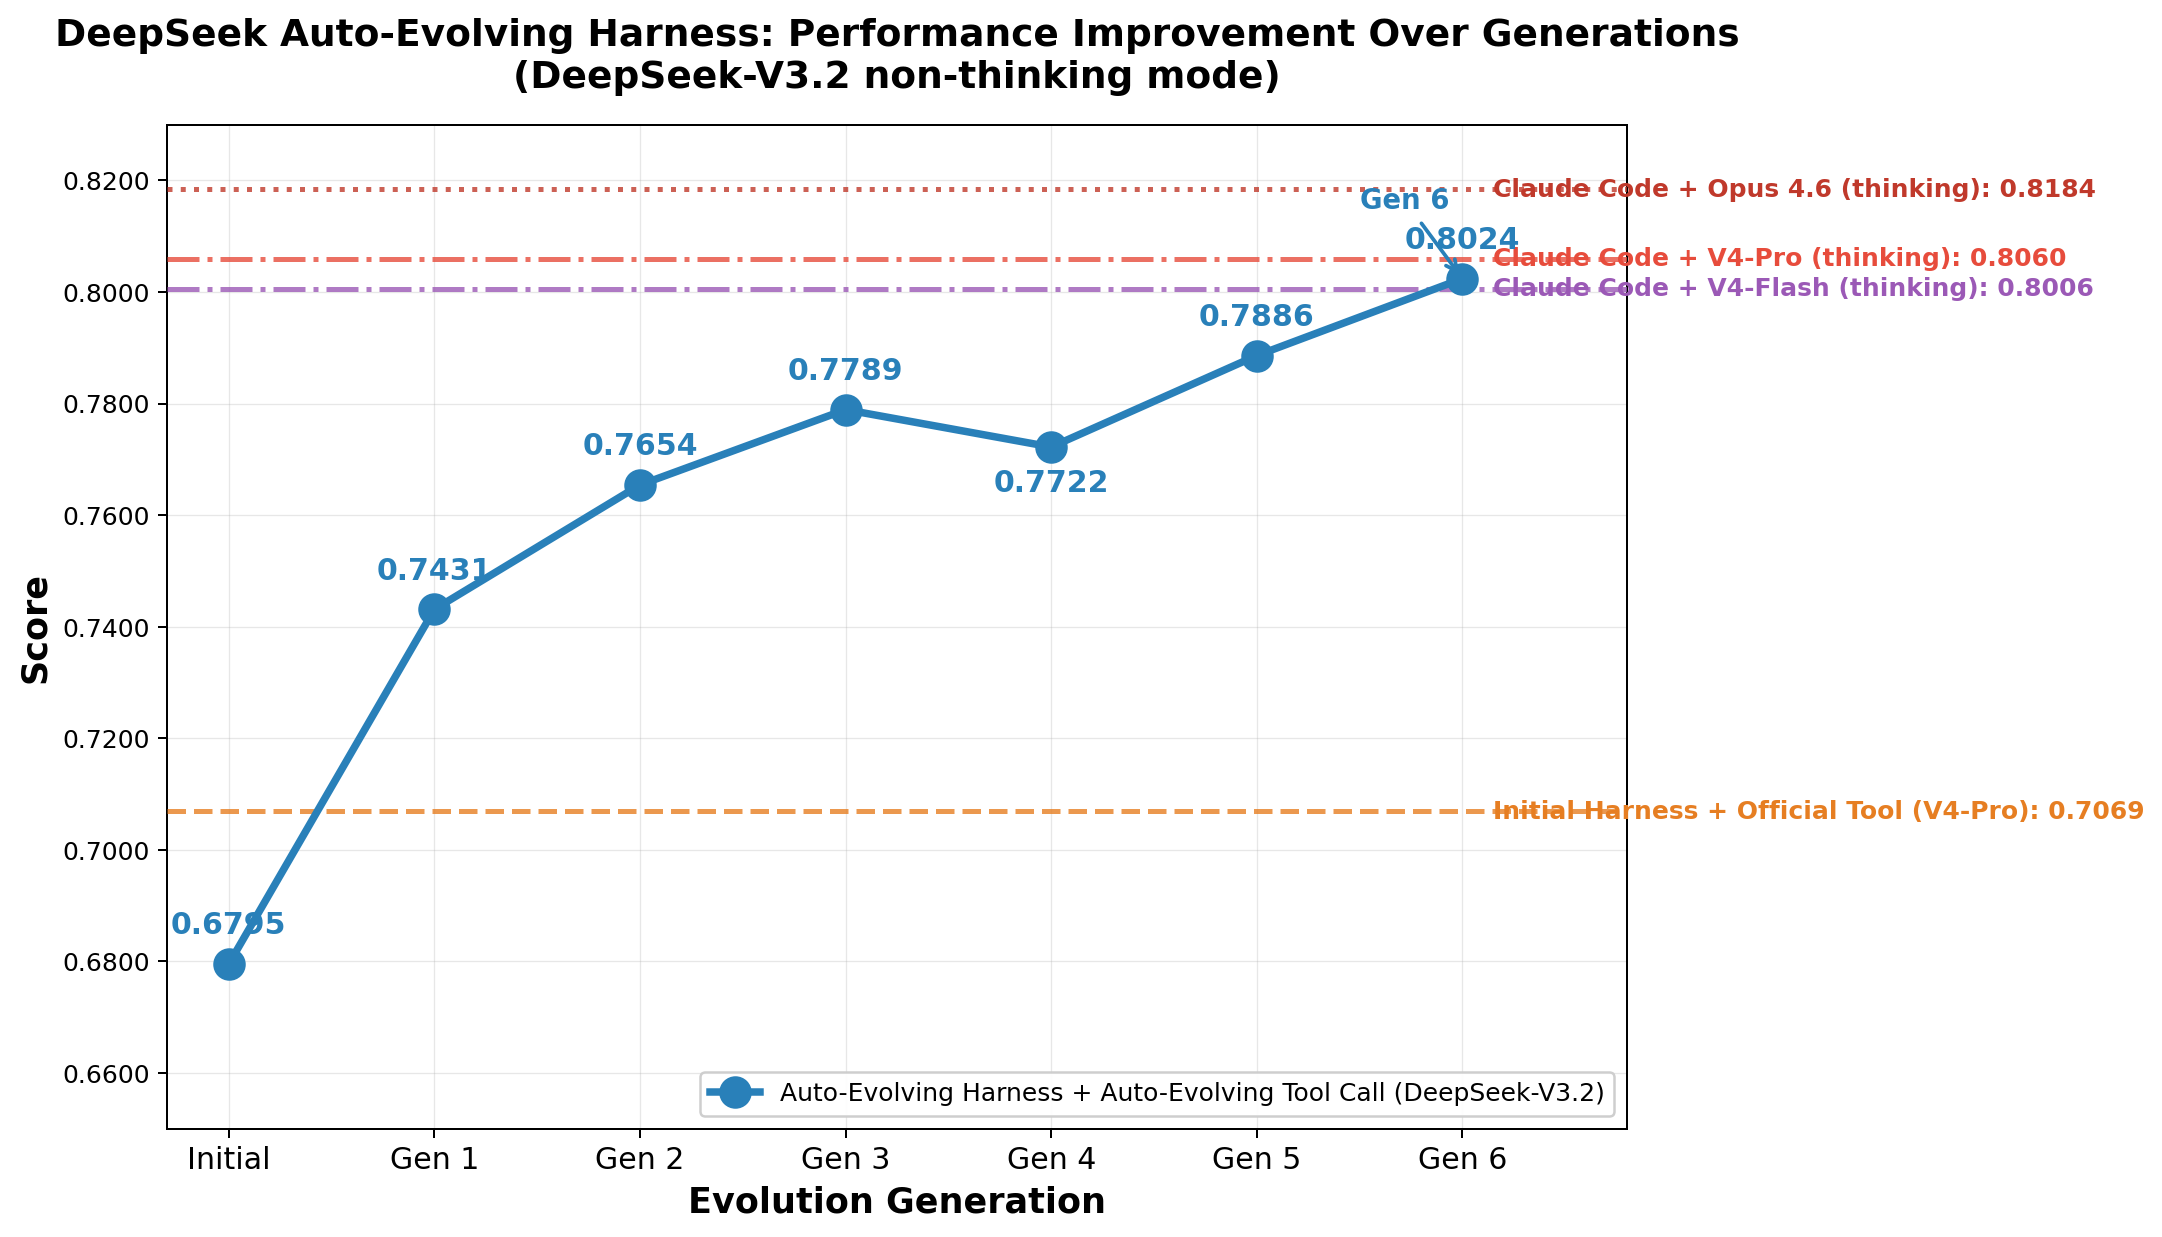
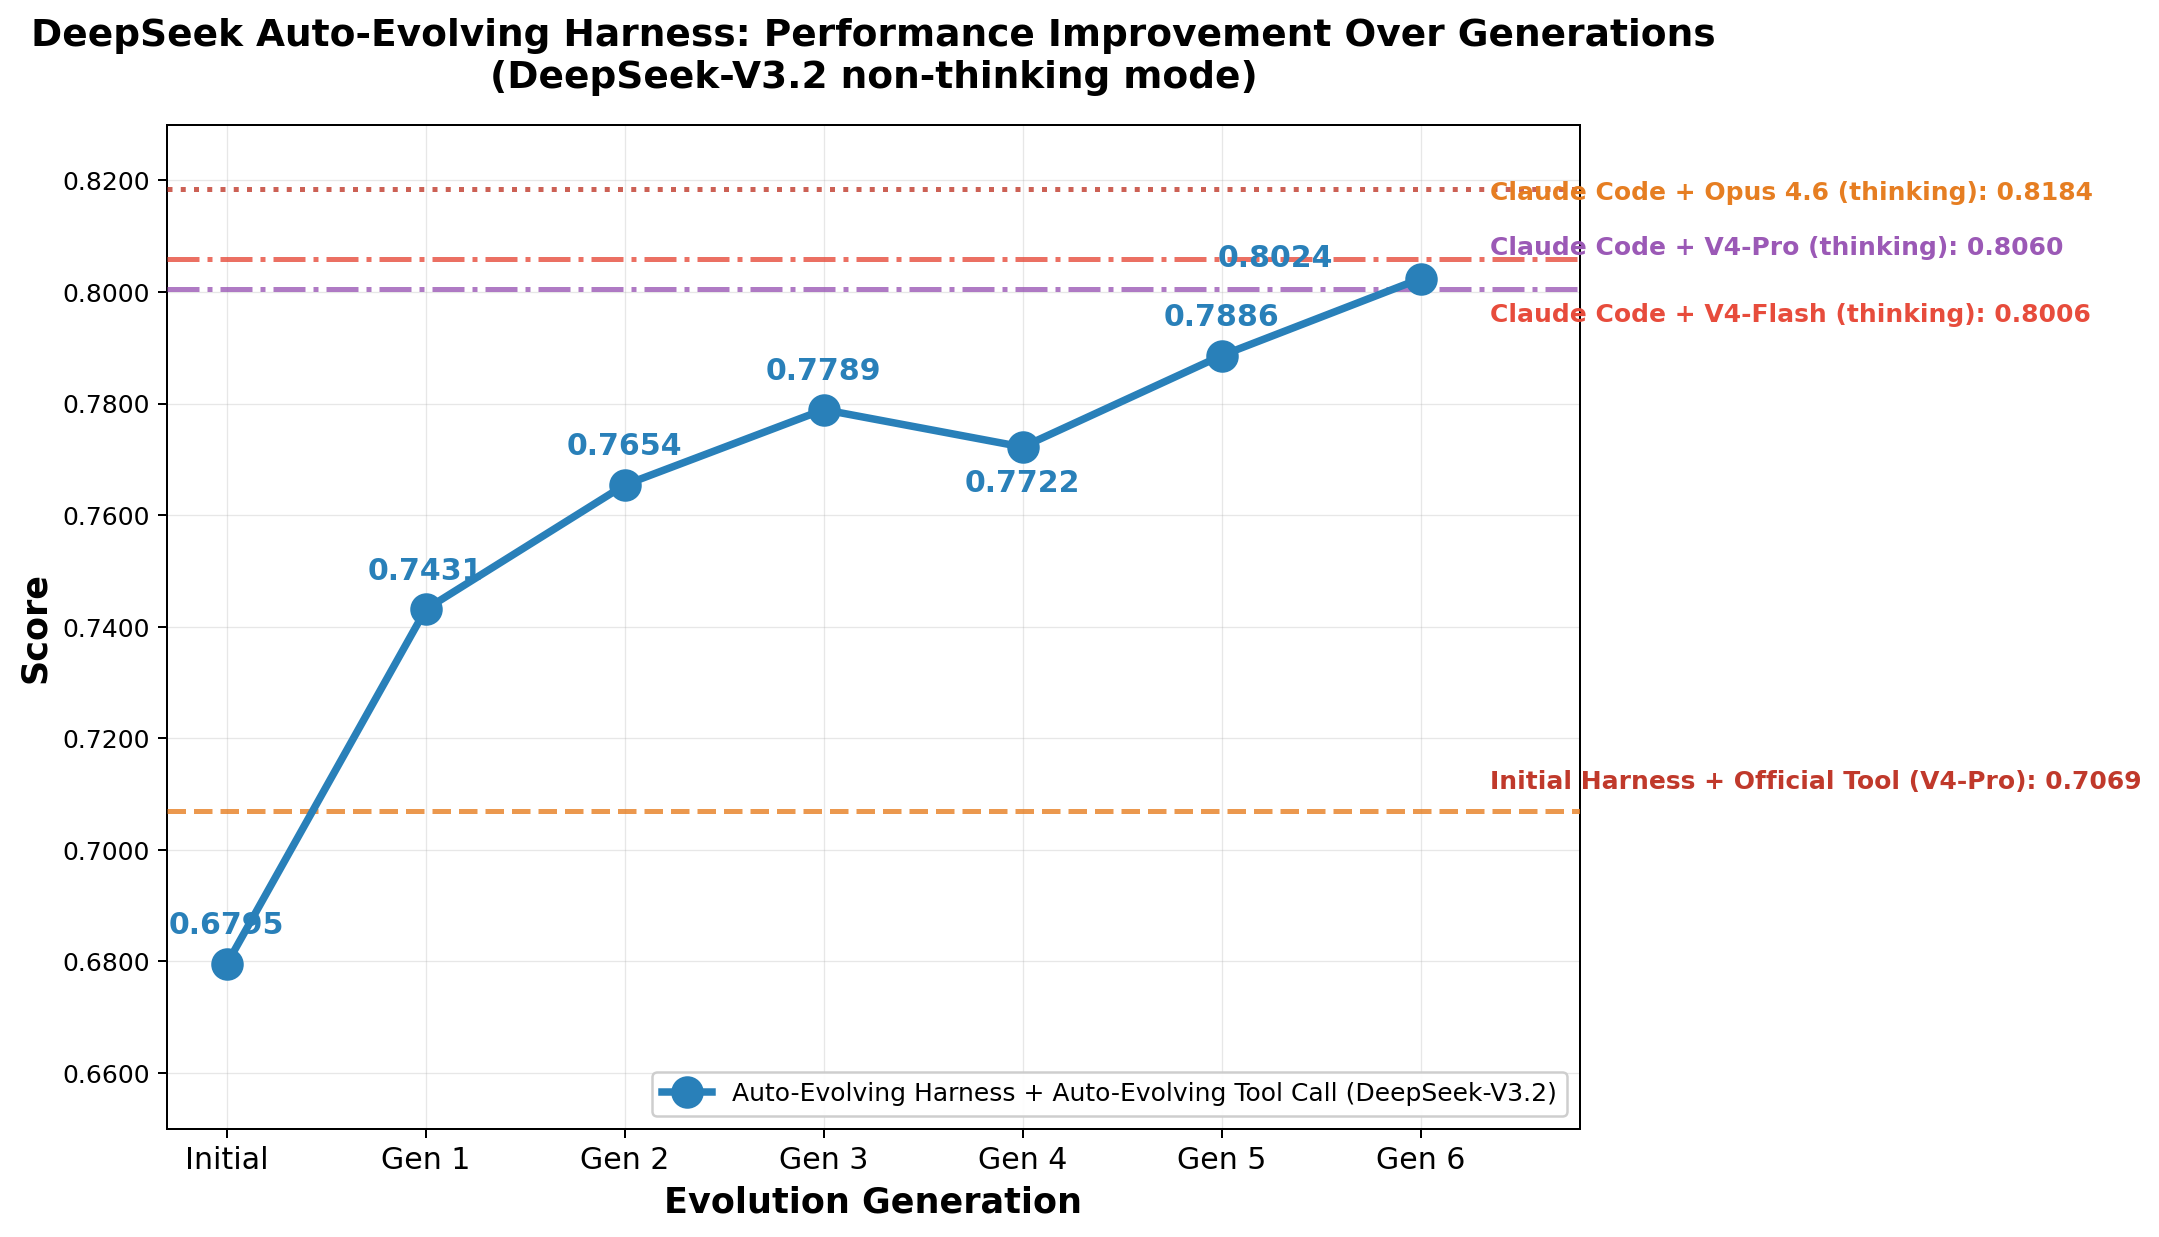
docs: fix chart label overlaps, move Gen 6 label left, stagger benchmark labels

diff --git a/draw_chart.py b/draw_chart.py
@@ -24,24 +24,37 @@ ax.plot(x, scores, color='#2980B9', linewidth=3, marker='o', markersize=12,
 
 # Annotate each point
 for i, (xi, yi) in enumerate(zip(x, scores)):
-    offset = 12 if i != 4 else -18  # Gen 4 annotation below to avoid overlap
-    ax.annotate(f'{yi:.4f}', (xi, yi), textcoords="offset points",
-                xytext=(0, offset), ha='center', fontsize=12, fontweight='bold',
-                color='#2980B9', zorder=6)
+    if i == 6:  # Gen 6 - label on left to avoid benchmark labels
+        ax.annotate(f'{yi:.4f}', (xi, yi), textcoords="offset points",
+                    xytext=(-35, 5), ha='right', fontsize=12, fontweight='bold',
+                    color='#2980B9', zorder=6)
+    else:
+        offset = 12 if i != 4 else -18  # Gen 4 annotation below to avoid overlap
+        ax.annotate(f'{yi:.4f}', (xi, yi), textcoords="offset points",
+                    xytext=(0, offset), ha='center', fontsize=12, fontweight='bold',
+                    color='#2980B9', zorder=6)
 
-# Plot benchmark lines
-for label, score, color, style in benchmarks:
+# Plot benchmark lines - labels staggered to avoid overlap
+label_positions = [
+    (6.35, 0.8200, 'Claude Code + Opus 4.6 (thinking): 0.8184'),  # top
+    (6.35, 0.8080, 'Claude Code + V4-Pro (thinking): 0.8060'),
+    (6.35, 0.7960, 'Claude Code + V4-Flash (thinking): 0.8006'),
+    (6.35, 0.7100, 'Initial Harness + Official Tool (V4-Pro): 0.7069'),  # bottom
+]
+
+for i, (label, score, color, style) in enumerate(benchmarks):
     ax.axhline(y=score, color=color, linestyle=style, linewidth=2, alpha=0.8, zorder=3)
-    # Label on the right
-    ax.text(6.15, score, f'{label}: {score:.4f}', va='center', ha='left',
+    lx, ly, ltext = label_positions[i]
+    # Calculate proper vertical alignment
+    va = 'center'
+    if i == 0:  # top label - align bottom to line
+        va = 'top'
+    elif i == 3:  # bottom label
+        va = 'bottom'
+    ax.text(lx, ly, ltext, va=va, ha='left',
             fontsize=10, color=color, fontweight='bold', zorder=4)
 
-# Highlight Gen 6 achievement with a simple annotation
-ax.annotate('Gen 6',
-            xy=(6, 0.8024), xytext=(5.5, 0.815),
-            fontsize=11, fontweight='bold', color='#2980B9',
-            arrowprops=dict(arrowstyle='->', color='#2980B9', lw=1.5),
-            zorder=7)
+ax.set_xlim(-0.3, 7.2)
 
 # Styling
 ax.set_xticks(x)
